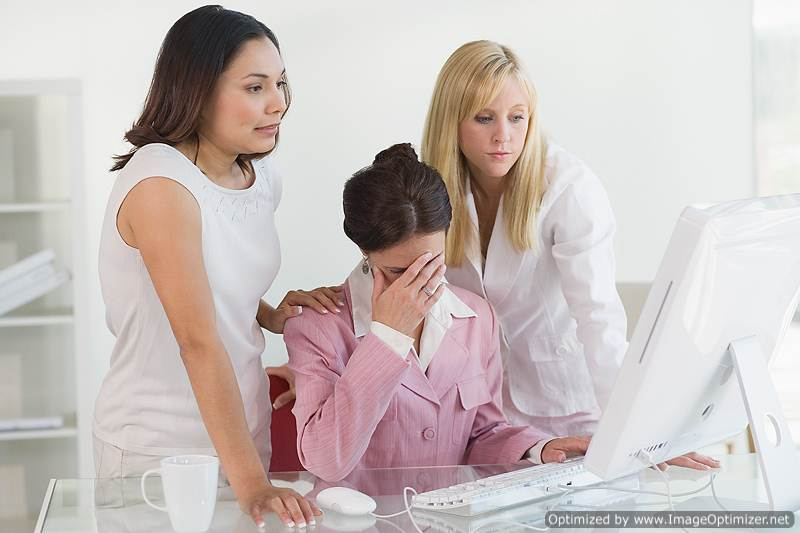
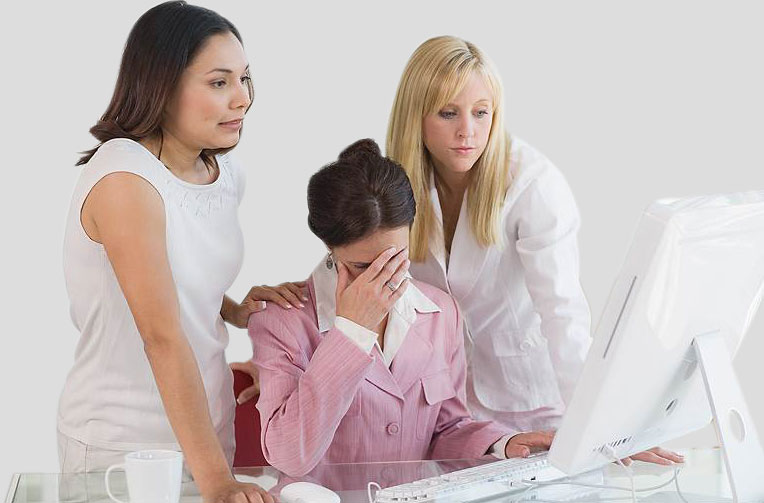
added images

diff --git a/project/index.html b/project/index.html
@@ -26,11 +26,15 @@
                     <li><a href="contact.html">CONTACT</a></li>
                 </ul>	
             </nav> 
-            <div id="social">   
+            <div id="social">  
+                <span class='st_sharethis_large' displayText='ShareThis'></span>
+				<span class='st_facebook_large' displayText='Facebook'></span>
+				<span class='st_twitter_large' displayText='Tweet'></span>
+				<span class='st_googleplus_large' displayText='Google +'></span> 
             </div> 
             <section class="why">
                 <h2>Why VCR?</h2>
-                <img src="images/" title="Computer Problems are Frustrating" alt="Woman sitting at a computer frustrated..." >
+                <img src="images/computer-problems.jpg" title="Computer Problems are Frustrating" alt="Woman sitting at a computer frustrated..." >
                 <article>
                     <p>We are a local business Over 25 Years of Friendly Experience! We specializes in service and upgrades of
                     new and used laptops, desktops and networking devices to small businesses 
@@ -49,21 +53,21 @@
                 </article>
             </section>
             <div id="brands"> 
-                <img src="images/" title="We Service all Major Nme Brands" alt="Dell, Acer, HP, Apple, IBM, and Toshiba Logo's." >
+                <img src="images/brands_banner.png" title="We Service all Major Nme Brands" alt="Dell, Acer, HP, Apple, IBM, and Toshiba Logo's." >
             </div>
         <hr/>
             <section class="certs">
                 <h2>Our Certifications</h2>
                 <aside>
-                    <img src="images/" title="Microsoft Certificate" alt="Microsoft Certified System Engineer Certification.">
-                    <img src="images/" title="Dell Certificate" alt="Dell Certified System Engineer Certification." >
-                    <a href="http://www.acrbo.com" title=""><img src="images/" title="ACRBO Certificate" 
+                    <img src="images/MCSE.png" title="Microsoft Certificate" alt="Microsoft Certified System Engineer Certification.">
+                    <img src="images/DCSE.png" title="Dell Certificate" alt="Dell Certified System Engineer Certification." >
+                    <a href="http://www.acrbo.com" title=""><img src="images/ACRBO.png" title="ACRBO Certificate" 
                     alt="Association of Computer Repair Business Owners Certification." ></a>
                 </aside>
             </section> 
         <hr/>
             <div id="tech_banner">
-                <img src="images/" title="Upgrade your computer" alt="Banner showing different services we perform." >
+                <img src="images/computer_repair_banner.jpg" title="Upgrade your computer" alt="Banner showing different services we perform." >
             </div>
             <section class="techs">
                 <h2>Our Techs</h2>
@@ -92,7 +96,7 @@
                     Rosemont FL - Sanford FL - Sand Lake FL - Maitland FL - Wekiva Springs FL - Windermere FL - Winter Garden FL - Winter Park FL 
                     - Winter Springs FL</p>
                     <div id="hours">
-                        <img src="images/" title="Hours of Operation" alt="Image of the ours we are open for business along with payment
+                        <img src="images/hours.png" title="Hours of Operation" alt="Image of the ours we are open for business along with payment
                         methods we accept" >
                     </div>
                 </aside>

diff --git a/project/css/style.css b/project/css/style.css
@@ -21,8 +21,7 @@ a:focus {
 
 header {
 	width: 100%;
-	background-color: #bbbbbb;
-	background-image: url(../images/);
+	background-image: url(../images/header_bg.jpg);
 	background-repeat: no-repeat;
 	margin: 0 auto;
 	overflow: hidden;	
@@ -43,7 +42,7 @@ header {
 
 
 nav {
-	margin: 20px auto;
+	margin: -20px auto;
 	width: 78.125%;
 }
 
@@ -102,7 +101,6 @@ a:active {
 
 #social {
 	width: 18.75%;
-	height: 20px; /*height only specified so box doesnt collapse, will not be there in final*/
 	margin: 0 auto;
 	padding-top: 10px;
 	clear: left; 
@@ -125,16 +123,12 @@ a:active {
 
 .why img {
 	width: 46.354167%;
-	height: 270px;/*height only specified so box doesnt collapse, will not be there in final*/
 	float: right;
-	border: 1px solid black;
 }
 
 #brands {
 	width: 55.208333%;
-	height: 100px;/*height only specified so box doesnt collapse, will not be there in final*/
 	margin: 0 auto 20px;
-	border: 1px solid black;
 }
 
 .certs {
@@ -154,23 +148,16 @@ a:active {
 
 .certs img {
 	width: 23.7436852%;
-	height: 141px;/*height only specified so box doesnt collapse, will not be there in final*/
 	float: left;
 	padding: 0 2.36em 0 2.36em;
-	border: 1px solid black;
-
 }
 
 #tech_banner {
 	width: 80%;
-	height: 100px;/*height only specified so box doesnt collapse, will not be there in final*/
 	overflow: hidden;
 	margin: 40px auto;
 	text-align: center;
-	border: 1px solid black;
-
 }
-
 
 .techs {
 	padding-left: 0 1em 0 1em;
@@ -211,8 +198,6 @@ a:active {
 	clear: left;
 }
 
-
-
 .service {
 	margin: 40px auto;
 	padding: 0 1em 0 1em;
@@ -226,8 +211,6 @@ a:active {
 }
 
 #hours {
-	height: 500px;/*height only specified so box doesnt collapse, will not be there in final*/
-	border: 1px solid black;
 }
 
 /*------------------End Home Page--------------------*/
@@ -602,7 +585,7 @@ footer {
 	width: 100%;
 	height: 65px;
 	margin: 10px auto 0;
-	background-image: url(../images/);
+	background-image: url(../images/footer_bg.jpg);
 	background-color: #bbbbbb;
 	overflow: hidden;
 }
